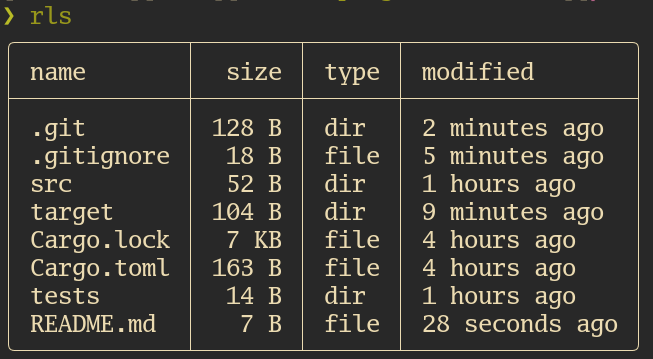
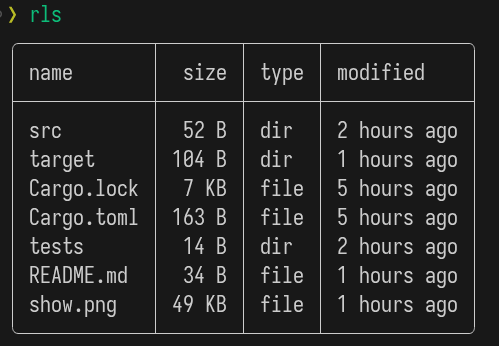
add show effect

Changed region(s): [[0.0, 0.1156, 0.992, 0.9827], [0.0, 0.0, 0.1202, 0.0867]]

diff --git a/README.md b/README.md
@@ -1,3 +1,5 @@
 # rsl
 
-![效果截图](./show.png)
+![效果截图](./show.png)  
+
+![效果截图](./show_all.png)
